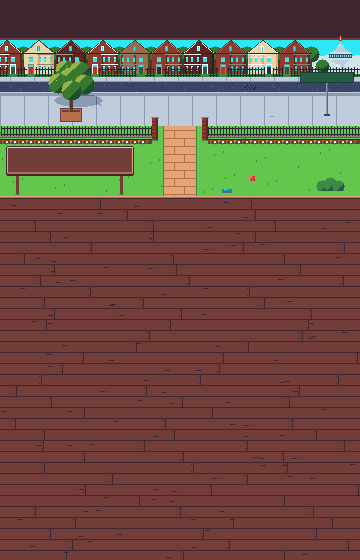
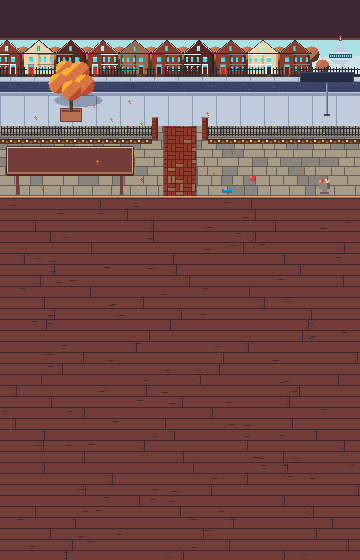
Turn the start screen's gate scene to autumn: ochre and brown trees, a flagstone yard and a brick path, so the Pet shop and Start walk stand out

diff --git a/art/tools/screens.py b/art/tools/screens.py
@@ -10,19 +10,23 @@ stands), and works as a header on any other screen.
 screen-<name>: 360x560 backgrounds in the house palette, one per screen. Where panels
 and text sit, they are low-contrast dark wood, so the cream and tan UI text
 reads on them.
-- screen-home: a summer morning on a Cabbagetown street. The bar strip, then the
-  gate scene (y 40 to 196). Across the street (FAR_BASE 74): a cyan sky over a
+- screen-home: an autumn morning on a Cabbagetown street. The bar strip, then the
+  gate scene (y 40 to 196). Across the street (FAR_BASE 74): a foam sky over a
   haze band, the CN Tower far back over the laneway at the right (FAR_CN), a
-  row of small bay-and-gables in brick, dbrick, cream and clay with canopy
-  trees between them, their front yards behind an iron fence. Then the far
-  sidewalk, the street (rows 82 to 91), the curb and our sidewalk with a maple
-  in summer leaf in its planter, then the iron fence on a stone kerb, open at
-  the gate between two brick piers (152 and 202), the front path, the yard sign
-  and the porch deck from y 198 under the walker, dogs and Pocket sections and
-  Start walk. The street sign's board (300,72 54x11, a 52x9 forest face) sits
-  at the right edge, clear of the walker's speech bubble; the game prints
-  homeText.gateSign on it in font-body, white, centred at 327,75. The yard's
-  right lot is left for ui-pet-shop.
+  row of small bay-and-gables in brick, dbrick, cream and clay with ochre and
+  brown trees between them, their bare front yards strewn with leaves behind
+  an iron fence. Then the far sidewalk, the street (rows 82 to 91), the curb
+  and our sidewalk with a turned maple (amber, ochre and rust) in its planter
+  and its leaves fallen around it, then the iron fence on a stone kerb with beds
+  of mums inside it, open at the gate between two brick piers (152 and 202). The
+  front yard is pale driftwood flagstones, the front path (x 164 to 195) red
+  brick in basket weave, with fallen leaves, the yard sign, a stone urn of
+  mums in the corner and the porch deck from y 198 under the walker, dogs and
+  Pocket sections and Start walk. The street sign's board (300,72 54x11, a
+  52x9 navy face) sits at the right edge, clear of the walker's speech bubble;
+  the game prints homeText.gateSign on it in font-body, white, centred at
+  327,75. The yard's right lot is left for ui-pet-shop. The scene holds no
+  strong green, so the Pet shop's board and Start walk stand out.
 - screen-stats: evening indoors. A panelled den wall that leaves the top left
   clear for the title (12,12 to 68,22); then, between the title and the close
   button and above the tabs (y 56), a framed dog photo, a low window onto
@@ -283,11 +287,11 @@ def logo():
 
 FAR_BASE = 74  # the far side's ground row on screen-home: its houses stand on it, their front yards under it
 # The far side's bay-and-gables: (left, width, wall, trim, door, bay on the left).
-FAR_HOMES = ((-8, 30, "brick", "white", "forest", True), (24, 30, "cream", "stone", "ttc", False),
+FAR_HOMES = ((-8, 30, "brick", "white", "dbrick", True), (24, 30, "cream", "stone", "ttc", False),
              (56, 30, "dbrick", "driftwood", "navy", True), (88, 30, "brick", "white", "ttc", False),
-             (120, 30, "clay", "stone", "forest", True), (152, 30, "brick", "driftwood", "navy", False),
-             (184, 30, "dbrick", "white", "forest", True), (216, 30, "brick", "stone", "ttc", False),
-             (248, 30, "cream", "white", "navy", True), (280, 30, "brick", "stone", "forest", False))
+             (120, 30, "clay", "stone", "dbrick", True), (152, 30, "brick", "driftwood", "navy", False),
+             (184, 30, "dbrick", "white", "dbrick", True), (216, 30, "brick", "stone", "ttc", False),
+             (248, 30, "cream", "white", "navy", True), (280, 30, "brick", "stone", "dbrick", False))
 FAR_CN = (340, 89, 36)  # the CN Tower's centre column, foot and mast tip on screen-home, over the laneway
 
 
@@ -332,30 +336,98 @@ def far_gable(cv, x, w, wall, trim, door, bay_left, base=FAR_BASE):
     cv.fill(dc - 4, base + 2, 8, 1, "dstone")
 
 
+def noise(x, y, seed):
+    """A fixed pseudo-random value in [0, 1) per cell and seed, from backdrops.noise."""
+    return bd.noise(x * 7 + seed * 131, y * 13 + seed * 71)
+
+
+def crown(cv, cx, cy, rad, lit, face, shade, bright=-0.7, dim=0.6):
+    """A round crown of leaves centred on cx,cy, lit from the top left: lit where (dx + dy) / rad is under
+    bright, shade where it is over dim, face between."""
+    for dy in range(-rad, rad + 1):
+        for dx in range(-rad, rad + 1):
+            if dx * dx + dy * dy <= rad * rad:
+                t = (dx + dy) / rad
+                cv.fill(cx + dx, cy + dy, 1, 1, shade if t > dim else lit if t < bright else face)
+
+
+def far_tree(cv, cx, top, rad):
+    """An autumn street tree across the street: a 2px bark trunk on FAR_BASE under an ochre, brown and bark
+    crown centred on row top."""
+    cv.fill(cx - 1, top + rad, 2, FAR_BASE - top - rad, "bark")
+    crown(cv, cx, top, rad, "ochre", "brown", "bark")
+
+
+def flagstones(cv, x0, y0, w, courses, face, joint, alt, seed):
+    """Irregular flagstones from x0, w wide, in courses of the given heights from row y0 down: each course
+    split into stones 10 to 21 wide, a 1px joint under and between them, about a third in alt."""
+    top = y0
+    for k, h in enumerate(courses):
+        edges, x = [], x0 - int(noise(k, 1, seed) * 12)
+        while x < x0 + w:
+            edges.append(x)
+            x += 10 + int(noise(k, x, seed) * 12)
+        for y in range(top, top + h):
+            for px in range(x0, x0 + w):
+                start = max(e for e in edges if e <= px)
+                c = joint if y == top + h - 1 or px in edges else alt if noise(start, k, seed) < 0.3 else face
+                cv.fill(px, y, 1, 1, c)
+        top += h
+
+
+def basket_weave(cv, x0, y0, w, h, face, joint, alt, seed=2):
+    """Basket-weave brick: 8x8 tiles on the screen's grid, each two bricks laid across or along in turn,
+    1px joints, about a quarter of the bricks in alt."""
+    for y in range(y0, y0 + h):
+        for x in range(x0, x0 + w):
+            lx, ly, tx, ty = x % 8, y % 8, x // 8, y // 8
+            across = (tx + ty) % 2 == 0
+            if (ly in (3, 7) or lx == 7) if across else (lx in (3, 7) or ly == 7):
+                c = joint
+            else:
+                half = ly // 4 if across else lx // 4
+                c = alt if noise(tx * 2 + half, ty, seed) < 0.25 else face
+            cv.fill(x, y, 1, 1, c)
+
+
+def urn(cv, x, foot):
+    """A stone urn planter centred on column x, its plinth's bottom row on foot - 1, holding amber, red and
+    cream mums."""
+    cv.fill(x - 4, foot - 2, 9, 2, "dstone")
+    cv.fill(x - 2, foot - 5, 5, 3, "stone")
+    cv.fill(x - 5, foot - 11, 11, 6, "stone")
+    cv.fill(x + 3, foot - 11, 3, 6, "dstone")
+    cv.fill(x - 6, foot - 12, 13, 1, "driftwood")
+    for k, (dx, dy) in enumerate(((-5, -14), (-2, -15), (1, -15), (4, -14), (-3, -13), (2, -13))):
+        cv.fill(x + dx, foot + dy, 2, 2, ("amber", "red", "cream")[k % 3])
+
+
 def home():
     cv = sn.Canvas(W, H)
     r = rand(7)
     # the bar strip the game draws its bar over
     cv.fill(0, 0, W, 38, "plum")
     cv.fill(0, 38, W, 2, "dbrown")
-    # across the street: a summer sky, the CN Tower far back over the laneway at the right, a row of
-    # Cabbagetown bay-and-gables with canopy trees between them, their front yards behind an iron fence
-    cv.fill(0, 40, W, FAR_BASE - 40, "cyan")
-    cv.fill(0, 56, W, FAR_BASE - 56, "haze")
+    # across the street: an autumn sky, the CN Tower far back over the laneway at the right, a row of
+    # Cabbagetown bay-and-gables with turned trees between them, their bare front yards strewn with
+    # leaves behind an iron fence
+    cv.fill(0, 40, W, FAR_BASE - 40, "foam")
+    cv.fill(0, 57, W, FAR_BASE - 57, "haze")
     for i in range(0, W, 5):
-        cv.fill(i, 56 - (i // 5) % 2, 5, 1, "haze")
+        cv.fill(i, 57 - (i // 5) % 2, 5, 1, "haze")
     cn_tower(cv, *FAR_CN, lit=False)
-    for k in range(len(FAR_HOMES)):
-        tx = FAR_HOMES[k][0] + FAR_HOMES[k][1] + 1
-        bd.tree(cv, tx, FAR_BASE - 20, "canopy", "pine", "bark", r=8, base=FAR_BASE, girth=2)
-    bd.tree(cv, 322, FAR_BASE - 8, "canopy", "pine", "bark", r=7, base=FAR_BASE, girth=2)
+    for x, w, *_ in FAR_HOMES:
+        far_tree(cv, x + w + 1, FAR_BASE - 20, 8)
+    far_tree(cv, 322, FAR_BASE - 8, 7)
     for x, w, wall, trim, door, bay_left in FAR_HOMES:
         far_gable(cv, x, w, wall, trim, door, bay_left)
-    cv.fill(0, FAR_BASE, W, 3, "dgreen")
+    cv.fill(0, FAR_BASE, W, 3, "bark")
+    for i in range(0, W, 7):
+        cv.fill(i + (i * 3) % 5, FAR_BASE + 1, 1, 1, "ochre")
     iron_fence(cv, 0, W, FAR_BASE + 3, [(x + (w - w // 2 // 2 - 6 if bay else w // 2 // 2 - 4),
                                         x + (w - w // 2 // 2 + 2 if bay else w // 2 // 2 + 4))
                                        for x, w, _, _, _, bay in FAR_HOMES])
-    # the far sidewalk and curb, then the street: asphalt, a manhole and a storm drain
+    # the far sidewalk and curb, then the street: asphalt and a storm drain
     cv.fill(0, FAR_BASE + 3, W, 4, "lgrey")
     for x in range(10, W, 24):
         cv.fill(x, FAR_BASE + 3, 1, 4, "grey")
@@ -363,10 +435,6 @@ def home():
     cv.fill(0, FAR_BASE + 8, W, 92 - FAR_BASE - 8, "dslate")
     for _ in range(90):
         cv.fill(int(r() * W), FAR_BASE + 8 + int(r() * (92 - FAR_BASE - 8)), 1, 1, "slate" if r() < 0.6 else "navy")
-    for dy in range(-2, 3):
-        for dx in range(-6, 7):
-            if (dx / 6.5) ** 2 + (dy / 2.5) ** 2 <= 1:
-                cv.fill(250 + dx, 87 + dy, 1, 1, "slate" if (dx + dy) % 3 == 0 and abs(dx) < 5 else "navy")
     cv.fill(52, 88, 18, 4, "navy")
     for x in range(54, 70, 3):
         cv.fill(x, 89, 1, 3, "ink")
@@ -376,11 +444,8 @@ def home():
     cv.fill(0, 96, W, 30, "lgrey")
     for x in range(0, W, 24):
         cv.fill(x, 96, 1, 30, "grey")
-    cv.fill(98, 104, 3, 1, "grey")
-    cv.fill(100, 105, 2, 1, "grey")
-    cv.fill(270, 116, 4, 1, "grey")
-    # a maple in a sidewalk planter in summer leaf: its shadow, the trunk, then a lumpy canopy crown, lit
-    # moss from the top left and shaded pine
+    # a maple in a sidewalk planter, turned: its shadow, the trunk, then a lumpy crown, lit amber from the
+    # top left and shaded rust, and its leaves fallen on the sidewalk
     for dy in range(-6, 7):
         for dx in range(-24, 25):
             if (dx / 24) ** 2 + (dy / 6.5) ** 2 <= 1:
@@ -392,38 +457,29 @@ def home():
     cv.fill(69, 92, 4, 20, "bark")
     cv.fill(69, 92, 1, 20, "clay")
     for lx, ly, rad in ((-6, -10, 10), (8, -9, 10), (0, 0, 13), (-13, 3, 10), (13, 4, 10), (0, 10, 10)):
-        for dy in range(-rad, rad + 1):
-            for dx in range(-rad, rad + 1):
-                if dx * dx + dy * dy <= rad * rad:
-                    lit = (dx + dy) / rad
-                    c = "pine" if lit > 0.55 else "moss" if lit < -0.75 else "canopy"
-                    cv.fill(71 + lx + dx, 80 + ly + dy, 1, 1, c)
-    for x, y in ((58, 70), (66, 66), (74, 68), (56, 80)):
-        cv.fill(x, y, 1, 1, "lime")
+        crown(cv, 71 + lx, 80 + ly, rad, "amber", "ochre", "rust", -0.75, 0.55)
+    for x, y in ((92, 104), (110, 118), (128, 100), (34, 116), (206, 112), (140, 122)):
+        leaf(cv, x, y, "ochre")
     # the street sign at the right edge, under the sound toggle and clear of the walker's speech
     # bubble (x 70 to 290, rows 46 to 112); the game prints the name centred at 327,75 in white,
-    # which holds 7.8:1 on forest green
+    # which holds 13.9:1 on navy
     cv.fill(326, 72, 2, 44, "slate")
     cv.fill(326, 72, 1, 44, "grey")
-    cv.fill(300, 72, 54, 11, "teal")
-    cv.fill(301, 73, 52, 9, "forest")
+    cv.fill(300, 72, 54, 11, "dslate")
+    cv.fill(301, 73, 52, 9, "navy")
     cv.fill(324, 114, 6, 2, "dslate")
-    # the front yard
-    cv.fill(0, 126, W, 70, "green")
-    for i in range(46):
-        cv.fill((i * 53) % W, 132 + (i * 29) % 60, 1, 2, "dgreen")
-    # flower beds along the inside of the fence
+    # the front yard: pale driftwood flagstones, some in stone
+    flagstones(cv, 0, 126, W, (7, 8, 9, 8, 9, 9, 10, 10), "driftwood", "dstone", "stone", seed=11)
+    # beds of mums along the inside of the fence
     for x0, x1 in ((0, 152), (208, W)):
-        cv.fill(x0, 139, x1 - x0, 5, "dbrown")
-        cv.fill(x0, 139, x1 - x0, 1, "plum")
-        bd.flowers(cv, x0 + 2, x1 - 2, 140, ("red", "yellow", "pink", "white"))
-    # the front path: tan flagstones from the porch to the gate
-    cv.fill(164, 126, 32, 70, "tan")
-    for y in range(130, 196, 8):
-        cv.fill(164, y, 32, 1, "brown")
-        cv.fill(180 + (4 if (y // 8) % 2 else -6), y + 1, 1, 7, "brown")
-    cv.fill(163, 126, 1, 70, "dgreen")
-    cv.fill(196, 126, 1, 70, "dgreen")
+        cv.fill(x0, 139, x1 - x0, 5, "bark")
+        cv.fill(x0, 139, x1 - x0, 1, "walnut")
+        for i, x in enumerate(range(x0 + 2, x1 - 2, 4)):
+            cv.fill(x, 140 + i % 2, 2, 2, ("amber", "red", "cream", "rust")[i % 4])
+    # the front path: red brick in basket weave from the porch to the gate
+    basket_weave(cv, 164, 126, 32, 70, "brick", "dbrick", "clay")
+    cv.fill(163, 126, 1, 70, "dstone")
+    cv.fill(196, 126, 1, 70, "dstone")
     # the iron fence on a stone kerb, open at the gate between two brick piers with stone caps
     cv.fill(0, 135, 156, 3, "stone")
     cv.fill(204, 135, W - 204, 3, "stone")
@@ -437,14 +493,17 @@ def home():
             cv.fill(px, y, 6, 1, "dbrick")
         cv.fill(px - 1, 116, 8, 2, "stone")
         cv.fill(px - 1, 116, 8, 1, "lgrey")
-        cv.fill(px, 140, 6, 1, "dgreen")
+        cv.fill(px, 140, 6, 1, "dstone")
     # the yard sign: blank board (the logo goes over it) on two posts
     for px in (16, 120):
         cv.fill(px, 172, 3, 22, "dbrown")
-        cv.fill(px - 1, 194, 5, 1, "dgreen")
+        cv.fill(px - 1, 194, 5, 1, "dstone")
     board(cv, *LOGO_AT)
-    # a bush in the corner, a water bowl by the path and a ball on the lawn
-    bd.bush(cv, 322, 186, "dgreen")
+    # an urn of mums in the corner, fallen leaves, a water bowl by the path and a ball on the flagstones
+    urn(cv, 324, 194)
+    for x, y, col in ((40, 186, "ochre"), (140, 178, "rust"), (212, 172, "brown"), (96, 160, "ochre"),
+                      (230, 150, "rust"), (300, 170, "ochre")):
+        leaf(cv, x, y, col)
     cv.fill(222, 189, 10, 4, "slate")
     cv.fill(223, 189, 8, 2, "sky")
     cv.fill(224, 189, 3, 1, "cyan")

diff --git a/art/style-guide.md b/art/style-guide.md
@@ -288,7 +288,7 @@ Backdrops are 360×158 on screen rows 48 to 205 (`art/tools/backdrops.py`); band
 | Kensington Market (deep sunburst)  | flat rays of lake and dturq from the end of the street (`sunburst`) | `backdrop-kensington-market`                   |
 | The Beaches (late afternoon)       | gold over yellow, small clouds and gulls                            | `backdrop-the-beaches`                         |
 | Toronto at night                   | navy, purple, mauve bands; a crescent moon, stars in the navy band  | `screen-loading`                               |
-| Toronto summer day                 | cyan over haze                                                      | `screen-home`                                  |
+| Toronto autumn day                 | foam over haze                                                      | `screen-home`                                  |
 | Yonge Street (evening)             | slate, dslate, purple, mauve bands; a full moon and stars           | `backdrop-yonge-street`                        |
 
 - A zone card repeats its backdrop's sky, bands and sun included.
